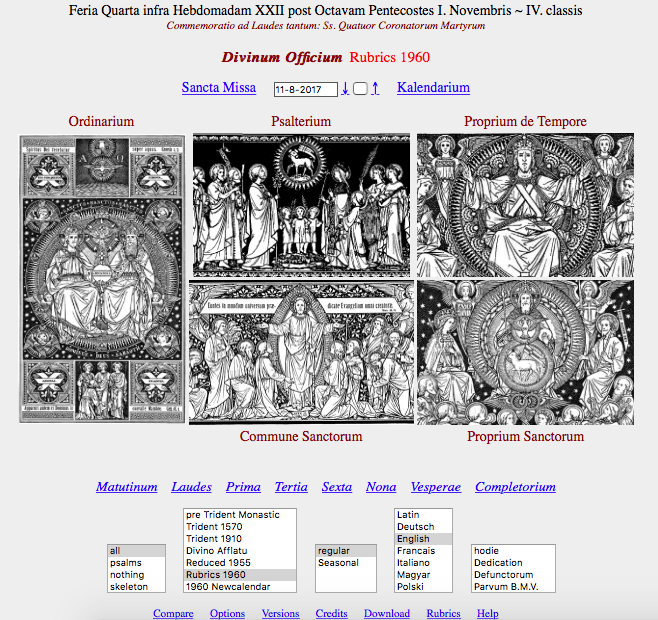
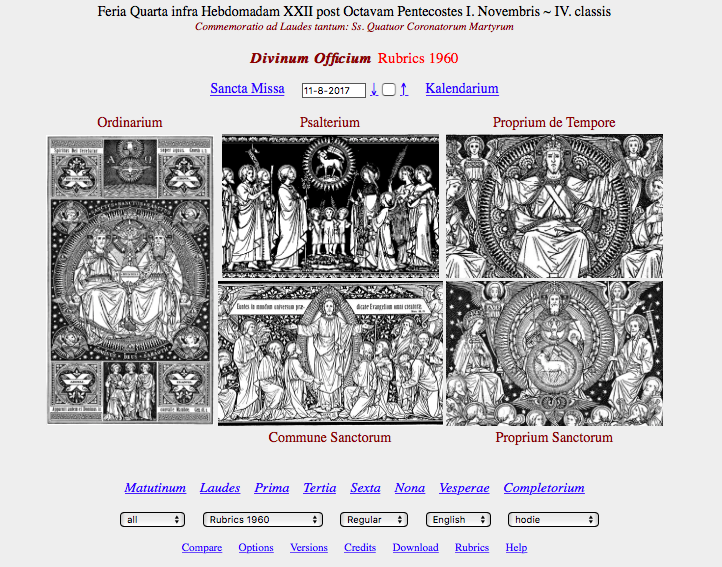
Edits

diff --git a/web/www/horas/Help/help.html b/web/www/horas/Help/help.html
@@ -24,7 +24,7 @@
 Click <A HREF="https://github.com/DivinumOfficium/divinum-officium/issues">here</A> for some known problems and deficiences. Your help is greatly appreciated.<BR><BR>
 The programlet comes up with the page:<BR><BR>
 <CENTER><IMG SRC="mainpage.png" ALT="main page"></CENTER><BR><BR>
-<span class=prm>The fist row</span> shows the day's Office (or that which is selected), 
+<span class=prm>The first line</span> shows the day's Office (or that which is selected), 
 <span class=prma>the second line</span> (if any) is
 the Office which is commemorated, or the Scripture which is read at Matins that day. In the top line, feasts are shown in red; vigils and offices of Our Lady in blue; and that of a feria, simplex or commemoration in black.<BR><BR>
 In the next line, the widget after the title allows to reset the <span class=prm>date</span>.
@@ -70,42 +70,49 @@ If the starting page image extends far beyond the screen, set <B>screen height</
 Click <span class=prma>OK</span> 
 to get to the main table again. If your computer allows cookies, this values and the
 ones on the bottom row will be saved for the next session.<BR><BR>
-The widgets on the <span class=prm>bottom row</span> allows you to control how the
-collection is shown. Click now on <span class=prma>skeleton</span> and click on
+The five selectors on the <span class=prm>bottom row</span> allows you to control how the
+Hours are rendered.<BR><BR>
+<CENTER><IMG SRC="selectors.png" ALT="selector"></CENTER><BR><BR>
+
+The first selector displays the Office in different formats as described below.<BR><BR>
+
+To <span class=prm>pray</span> the hour, please select any mode other than skeleton:<BR>
+<UL>
+<LI><span class=prm>all</span> prints everything, including the common prayers. (Default)
+<LI><span class=prm>psalms</span> only indicates the common prayers.
+<LI><span class=prm>nothing</span> prints only the Ordinarium; the psalms, lections and other longer items are only indicated.
+<LI><span class=prm>skeleton</span> prints only the structure of the Hour.
+</UL>
+For instance, click now on the leftmost selector, choosing <span class=prma>skeleton</span> and click on the
 <span class=prm>Completorium</span> button.<BR><BR>
 
 The programlet shows the skeleton of the easiest-to-compose <span class=prm>Hour</span>, that of Compline.<BR><BR>
-<CENTER><IMG SRC="compskel.png" ALT="completorium-skeleton"></CENTER><BR><BR>
-
-Only the <span class=prma>Psalmi</span> and the <span class=prma>Preces</span> 
-are changeable; the rest is from the Ordinarium. Other hours are more complex. Click on the 
+Only the <span class=prma>Psalmi</span> and the <span class=prma>Preces</span> are changeable; the rest is from the Ordinarium. Other hours are more complex. Click on the 
 name of each hour. The comments in black indicate the source of the section.<BR><BR>
 
+<CENTER><IMG SRC="compskel.png" ALT="completorium-skeleton"></CENTER><BR><BR>
+
+
+If you select "Psalms" or "Nothing", you may <BR><BR>
+
+<CENTER><IMG SRC="horastable.png" ALT="horastable"></CENTER><BR><BR>
+
+<UL>
+<LI>click the button next to the indicated element in the Hour, and the text will come up in a separate window as a <span class=prma>popup</span>.<BR><BR>
+<LI>In any selection, clicking on <B>Top</B> brings the cell to the top, <B>Next</B> brings the next cell to the top.<BR><BR>
+<LI>The number in the right cell is for reference.<BR><BR>
 If you click on any <span class=prma>radio button</span> next to the section title,
 that part will be expanded. Click an another to change the expanded part, or on the same
 section's button again, to contract the expansion.<BR><BR>
 
 The picture shows the final <span class=prma>Oratio</span> expanded, and the <span class=prma>Pater Noster</span> as popup.<BR><BR>
 <CENTER><IMG SRC="expandedpopup.png" ALT="expanded and popup"></CENTER><BR><BR>
-
-To <span class=prm>pray</span> the hour, please select any mode other than skeleton:<BR>
-<UL>
-<LI><span class=prm>all</span> prints everything, including the common prayers. (Default)
-<LI><span class=prm>psalms</span> only indicates the common prayers.
-<LI><span class=prm>nothing</span> types only the Ordinarium; the psalms, lections and other longer items are only indicated.
+The second selector chooses the rubrical structure, of which 7 options are provided. The programlet defaults to the 1960 rubrics.<BR><BR>
+The third selector selects "Regular" or "Seasonal" mode, which in certain cases will allow one to pray the Office of the season as opposed to that of the day. See <a href='versions.html'>Versions</a> for details.<BR><BR>
+The fourth selector designates the language in which the Office is displayed in the right-hand column. If a translation is not fully available in a particular language, the second column in the displayed Office will default to English text. If you select the same language as the first column, only that language will 
+be displayed in a single column.<BR><BR>
+The fifth selector permits a choice from among several votive Offices, such as the Officium Defunctorum or the Officium Parvum of the Blessed Virgin Mary.<BR><BR>
 </UL>
-
-In the last two cases you may <BR><BR>
-
-<CENTER><IMG SRC="horastable.png" ALT="horastable"></CENTER><BR><BR>
-
-<UL>
-<LI>click the button next to the indicated name, and the text will come up in a separate window as a  
-<span class=prma>popup</span>.<BR><BR>
-<LI>Clicking on <B>Top</B> brings the cell to the top, <B>Next</B> brings the next cell to the top.<BR><BR>
-<LI>The number in the right cell is for reference.<BR>
-</UL><BR>
-
 Within the text:<BR>
 <UL>
 <LI><IMG SRC="../cross1.gif" ALT="cross1"> stands for the regular Sign of the Cross (forehead, breast, left, then right shoulder).<BR>
@@ -113,18 +120,10 @@ Within the text:<BR>
 <LI><IMG SRC="../cross3.gif" ALT="cross3"> stands for making a cross with your thumb on your breast.<BR>
 </LI><BR>
 You may also change the date by clicking on <span class=prm>Kalendar</span> tab.<BR> 
-Select an other <B>date</B>, by clicking the day of month in the first column. Also you may
-change the <B>year</B> <B>month</B> at the top or the version at the borrom of the page.<BR><BR>
+Select another <B>date</B> by clicking the day of the month in the first column. Also, you may
+change the <B>year</B> <B>month</B> at the top, or the version at the bottom of the page.<BR><BR>
 
 <CENTER><IMG SRC="kalendar.png" ALT="kalendar"></CENTER><BR><BR>
-
-Using the widgets you may select the <span class=prma>language</span> for the second column. 
-If you select the same language as the first column, only that language will 
-be shown, in a single column.<BR><BR>
-
-The last widget on the bottom allows to turn back to the Office of the 
-<span class=prma>current day</span> (by clicking "hodie") or to select a 
-<span class=prma>votive</span> Office.<BR><BR>
 
 If Divinum Officium has been downloaded to one's computer as a local web host (or via GitHub), it is possible to edit the individual files.<BR><BR>
 
